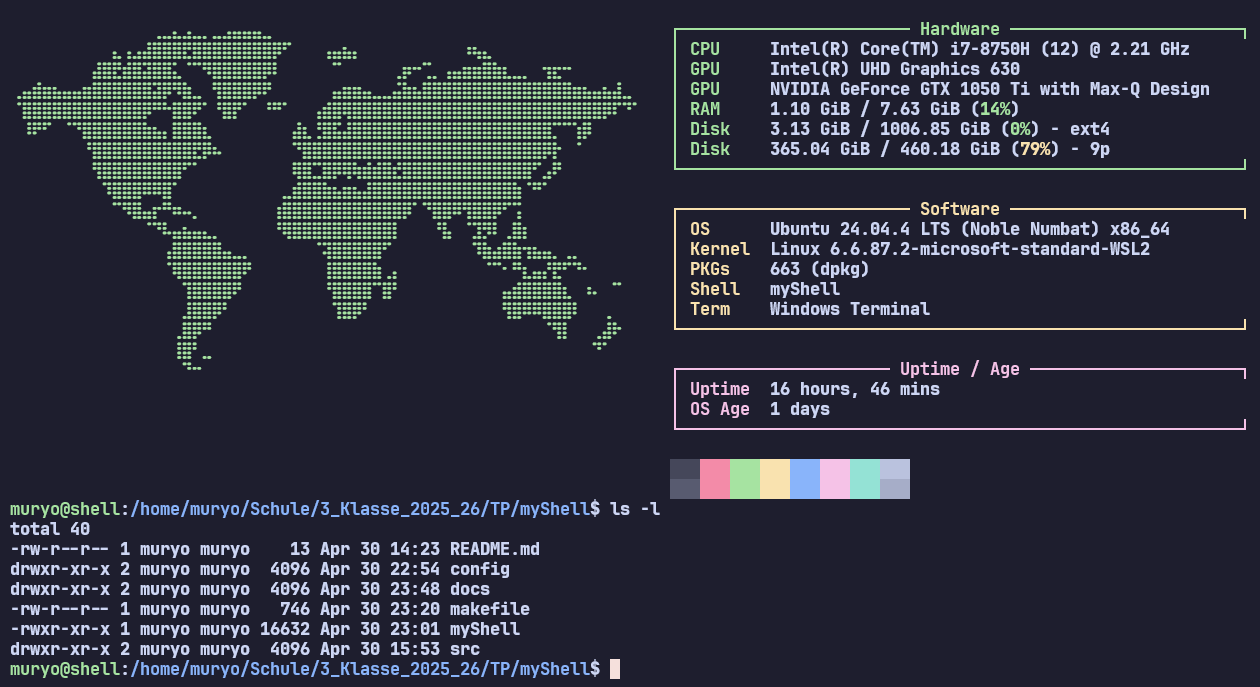
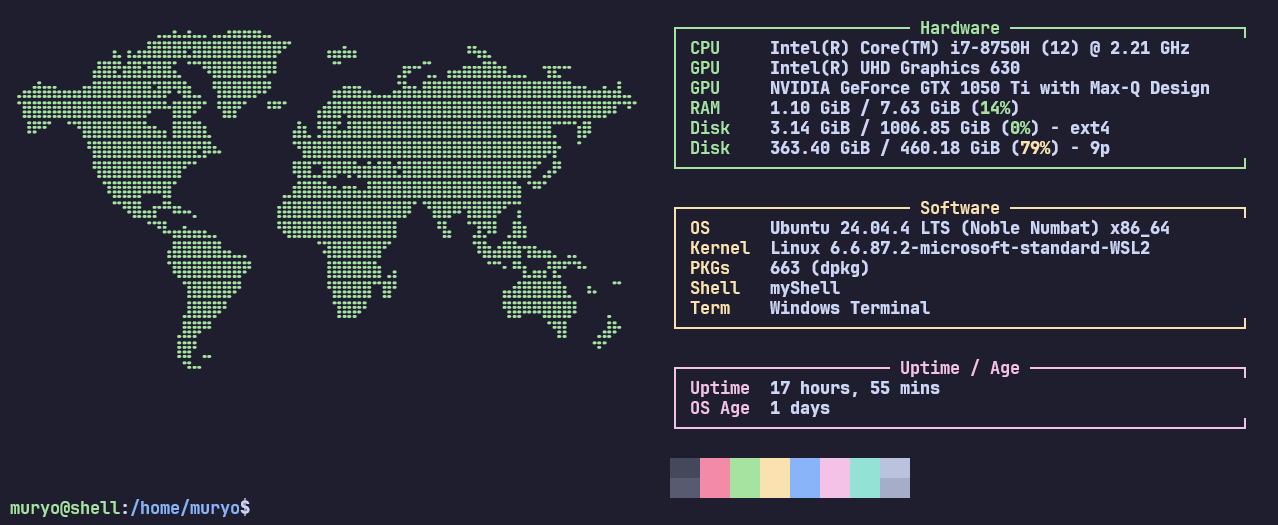
Update: README.md

Changed region(s): [[0.0, 0.0305, 0.9905, 1.0], [0.0, 0.0305, 0.4952, 0.701], [0.5262, 0.8533, 0.7119, 0.9752]]

diff --git a/README.md b/README.md
@@ -1,6 +1,8 @@
-# 🐚 myShell
+# </> myShell
 
 Dieses Projekt wurde im Rahmen des Fachs TP an der TFO "Max Valier" Bozen (Schuljahr 2025/26) entwickelt. Ziel war es, eine eigene Linux-Shell in C zu programmieren, die Befehle einliest, parst und in Kindprozessen ausführt.
+
+![myShell Startbildschirm](docs/screenshot.png)
 
 ## ✨ Funktionen
 
@@ -60,6 +62,6 @@ sudo make uninstall
 ## 👨💻 Autor
 
 Adrian Pinggera  
-Klasse: 3_Klasse_2025_26
+Klasse: 3ib - 2025_26
 
 Technologische Fachoberschule "Max Valier" Bozen